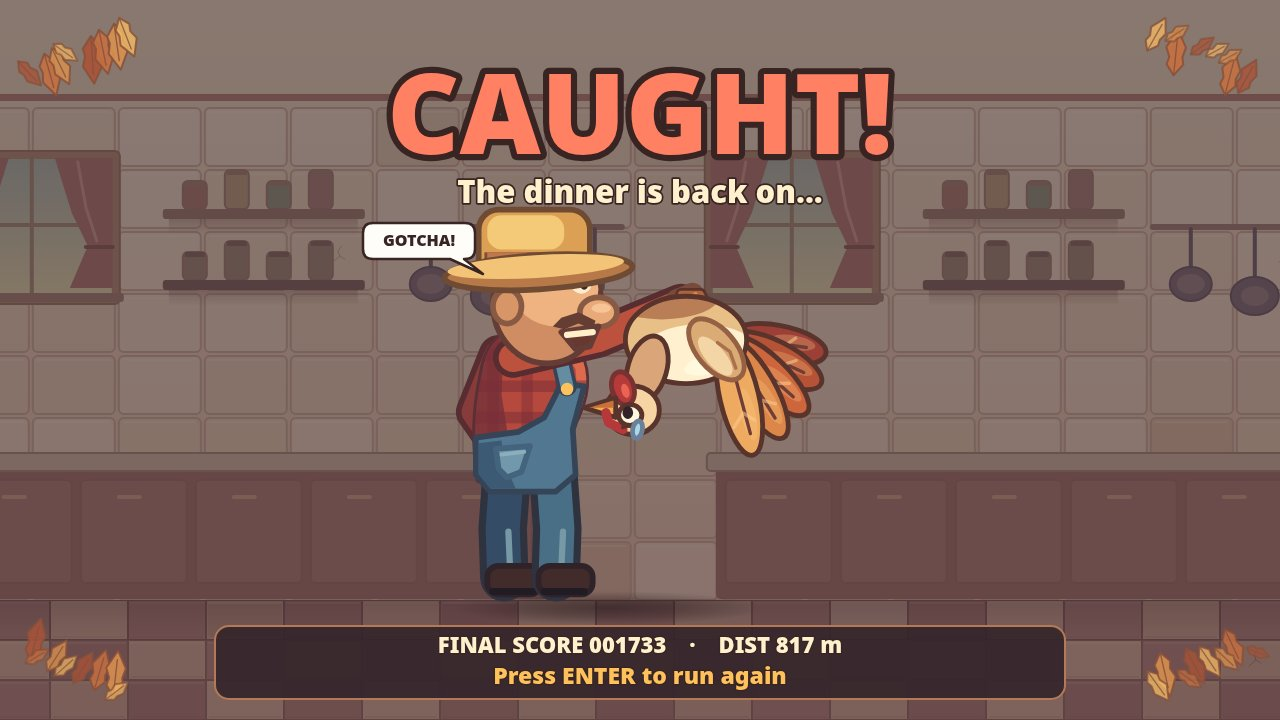
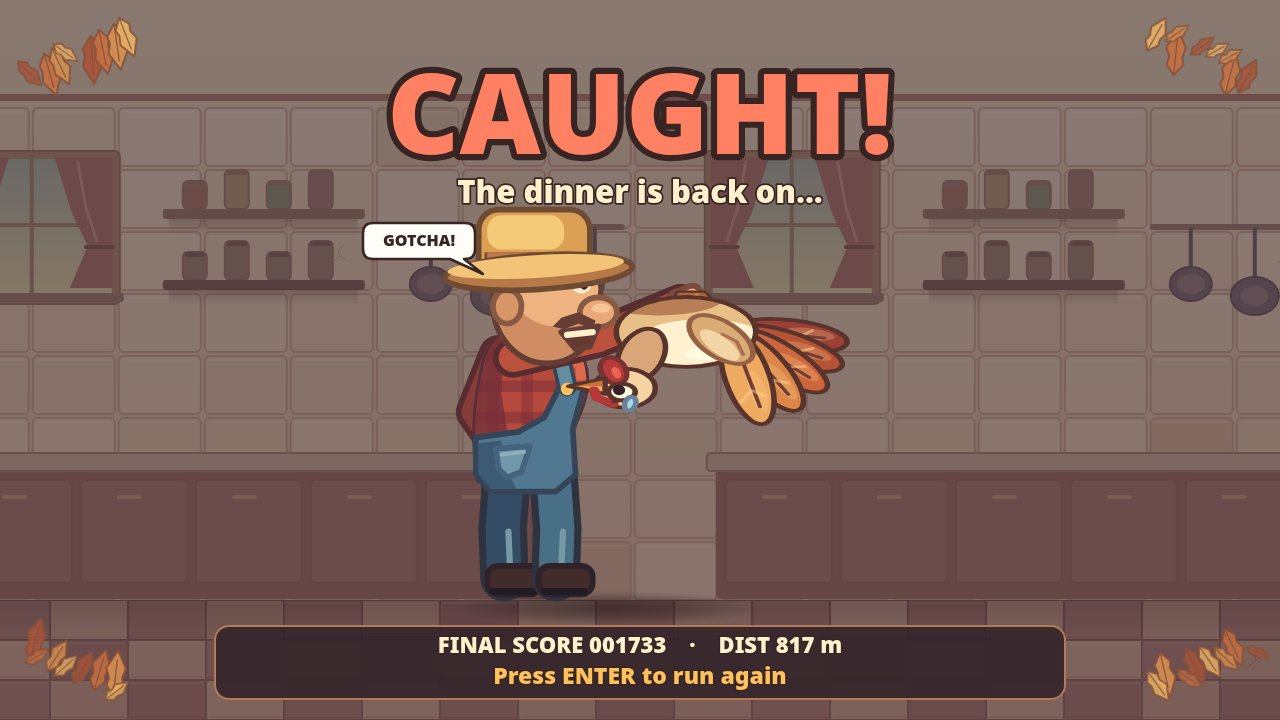
v3.5: Farmer Hank HUD name, feather particles, caught-screen squash, tiny screen shake (render-only, balance unchanged)

Changed region(s): [[0.4375, 0.3972, 0.6875, 0.6417]]

diff --git a/game/src/render.js b/game/src/render.js
@@ -8,6 +8,8 @@ const LEAF_COLORS = ['#c74731', '#e77835', '#ffbf55'];
 const STAGE_LABELS = ['FARM', 'BARN', 'KITCHEN'];
 const HIT_SECONDS = 0.2;
 const DUST_INTERVAL = 0.095;
+const DASH_FEATHER_INTERVAL = 0.19;
+const LUNGE_SHAKE_SECONDS = 0.14;
 const CHARACTER_SCALE = 1.25;
 
 function fraction(value) {
@@ -26,6 +28,9 @@ export class Renderer {
     this.previousRunner = null;
     this.lastDust = -Infinity;
     this.lastHit = -Infinity;
+    this.lastLungeShake = -Infinity;
+    this.lastDashFeather = -Infinity;
+    this.featherSequence = 0;
   }
 
   rect(x, y, w, h, fill) {
@@ -402,6 +407,9 @@ export class Renderer {
       this.effects = [];
       this.lastDust = -Infinity;
       this.lastHit = -Infinity;
+      this.lastLungeShake = -Infinity;
+      this.lastDashFeather = -Infinity;
+      this.featherSequence = 0;
       this.shotDustSpawned = false;
     }
     this.previousRunner = { world, time, frozen, shotDustX, x: turkey.x, y: turkey.y, lives: turkey.lives };
@@ -417,14 +425,47 @@ export class Renderer {
     if (!animate) return false;
 
     const distance = turkey.x - previous.x;
+    const { CRUISE_SPEED, DASH_SPEED } = this.config.turkey;
+    const elapsed = time - previous.time;
+    const dashing = elapsed > 0 && distance / elapsed > (CRUISE_SPEED + DASH_SPEED) / 2;
     if (turkey.y === 0 && previous.y > 0) {
       this.spawnDust(turkey.x, true);
+      this.spawnFeathers(turkey.x - 12, this.ground - 15, time, 3);
+    } else if (previous.y === 0 && turkey.y > 0) {
+      this.spawnFeathers(previous.x - 12, this.ground - 17, time, 3);
     } else if (turkey.y === 0 && distance > 0 && time - this.lastDust >= DUST_INTERVAL) {
       this.spawnDust(turkey.x, false);
     }
-    const { CRUISE_SPEED, DASH_SPEED } = this.config.turkey;
-    const elapsed = time - previous.time;
-    return elapsed > 0 && distance / elapsed > (CRUISE_SPEED + DASH_SPEED) / 2;
+    if (dashing && time - this.lastDashFeather >= DASH_FEATHER_INTERVAL) {
+      this.spawnFeathers(turkey.x - 40, this.ground - turkey.y - 24, time, 1);
+      this.lastDashFeather = time;
+    }
+    return dashing;
+  }
+
+  spawnFeathers(x, y, time, count, burst = false) {
+    const sequence = this.featherSequence++;
+    for (let i = 0; i < count; i++) {
+      const sample = this.decorSample(sequence, i + 31);
+      const spread = i - (count - 1) / 2;
+      this.effects.push({
+        kind: 'feather', x: x + spread * 4, y,
+        vx: burst ? spread * 32 - 10 : -35 + spread * 13 - sample * 15,
+        vy: -18 - sample * 32,
+        size: (burst ? 5.5 : 4) + sample * 2.5,
+        angle: sample * TAU, ivory: i % 2 === 0,
+        time, duration: 0.32 + sample * 0.17,
+      });
+    }
+  }
+
+  closeCallEffect(x, lift, time) {
+    this.spawnFeathers(x - 12, this.ground - lift - 30, time, 7, true);
+    this.shakeLunge(time);
+  }
+
+  shakeLunge(time) {
+    this.lastLungeShake = time;
   }
 
   spawnDust(x, landing, time = this.time) {
@@ -468,6 +509,15 @@ export class Renderer {
         glow.addColorStop(1, '#ffe3b500');
         c.globalAlpha = remaining * 0.72;
         this.oval(x, y, size, size * 0.7, glow);
+      } else if (particle.kind === 'feather') {
+        const size = particle.size;
+        c.save();
+        c.globalAlpha = remaining * 0.86;
+        c.translate(x, y + age * age * 74);
+        c.rotate(particle.angle + age * 4);
+        this.oval(0, 0, size, size * 0.35, particle.ivory ? '#fff8e5' : '#e6bd89', 0, '#916549');
+        this.line([[-size * 0.9, 0], [size * 0.48, 0]], '#aa7e57', 0.8);
+        c.restore();
       } else {
         const size = particle.size * (0.45 + remaining * 0.55);
         c.globalAlpha = remaining;
@@ -482,21 +532,30 @@ export class Renderer {
 
   beginImpact() {
     const impact = Math.max(0, 1 - (this.time - this.lastHit) / HIT_SECONDS);
-    if (impact === 0) return 0;
+    const lungeAge = this.time - this.lastLungeShake;
+    const shake = Math.max(0, 1 - lungeAge / LUNGE_SHAKE_SECONDS);
+    if (!impact && !shake) return null;
     const c = this.ctx;
     c.save();
-    const phase = (this.time - this.lastHit) * 92;
-    c.translate(Math.sin(phase + 1) * impact * 6, Math.cos(phase) * impact * 3);
+    if (impact) {
+      const phase = (this.time - this.lastHit) * 92;
+      c.translate(Math.sin(phase + 1) * impact * 6, Math.cos(phase) * impact * 3);
+    } else {
+      c.translate(Math.cos(lungeAge * 100) * shake * 3, Math.sin(lungeAge * 126) * shake * 1.7);
+    }
     c.translate(this.w / 2, this.h / 2);
-    c.scale(1 + 0.011 * impact, 1 + 0.011 * impact);
+    const zoom = 1 + (impact ? 0.011 * impact : 0.006 * shake);
+    c.scale(zoom, zoom);
     c.translate(-this.w / 2, -this.h / 2);
-    return impact;
+    return { impact };
   }
 
-  endImpact(impact) {
-    if (impact === 0) return;
+  endImpact(transform) {
+    if (!transform) return;
     const c = this.ctx;
     c.restore();
+    const { impact } = transform;
+    if (!impact) return;
     const x = this.w / 2;
     const y = this.h / 2;
     const vignette = c.createRadialGradient(x, y, y * 0.78, x, y, x * 1.15);
@@ -1047,7 +1106,7 @@ export class Renderer {
     const hot = distance <= hotDistance;
     const x = 188;
     const width = 166;
-    this.text('FARMER', x, 40, 15, hot ? '#ff997f' : '#f1bb7d', 'left');
+    this.text('FARMER HANK', x, 40, 15, hot ? '#ff997f' : '#f1bb7d', 'left');
     this.round(x, 54, width, 13, 5, '#291c22', '#8e5d4b');
     if (fill > 0) this.round(x + 2, 56, (width - 4) * fill, 9, 4, hot ? '#f96250' : '#f1ab50');
     if (hot) this.text('RIGHT BEHIND YOU!', x, 84, 14, '#ff9b86', 'left');
@@ -1140,7 +1199,20 @@ export class Renderer {
     this.text('The dinner is back on...', 640, 194, 31);
     this.shadow(608, this.ground + 8, 156, 17, true);
     this.farmerPose(530, this.ground, { facing: 1 }, 2.28 * CHARACTER_SCALE, true);
+    if (this.caughtWorld !== state.world) {
+      this.caughtWorld = state.world;
+      this.caughtAt = this.time;
+    }
+    const c = this.ctx;
+    c.save();
+    const recoil = state.frozen ? 0 : Math.max(0, 1 - (this.time - this.caughtAt) / 0.24);
+    // Keep the grip in place as the recoil settles into a flattened pose.
+    const gripY = this.ground - 300;
+    c.translate(686, gripY);
+    c.scale(1.15 + recoil * 0.11, 0.8 - recoil * 0.25);
+    c.translate(-686, -gripY);
     this.turkeyPose(686, this.ground - 328, { airborne: true, despair: true }, 1.94 * CHARACTER_SCALE, Math.PI);
+    c.restore();
     this.speechBubble('GOTCHA!', 487, 279, 112);
     this.leafFrame();
     this.endPrompt(state);

diff --git a/game/src/main.js b/game/src/main.js
@@ -128,6 +128,7 @@ function updatePlaying(dt) {
   if (wasLunging && !lunging && game.lungeWasClose && !caught) {
     game.closeCallPoints += CLOSE_CALL_POINTS;
     game.closeCallUntil = game.time + CLOSE_CALL_SECONDS;
+    renderer.closeCallEffect(turkey.x, turkey.y, game.time);
   }
 
   game.distance = Math.floor(turkey.x / tuning.PIXELS_PER_METRE);
@@ -144,6 +145,7 @@ function updatePlaying(dt) {
   }
 
   if (caught) {
+    if (turkey.alive && (wasLunging || lunging)) renderer.shakeLunge(game.time);
     turkey.alive = false;
     game.state = 'caught';
     audio.caught();
